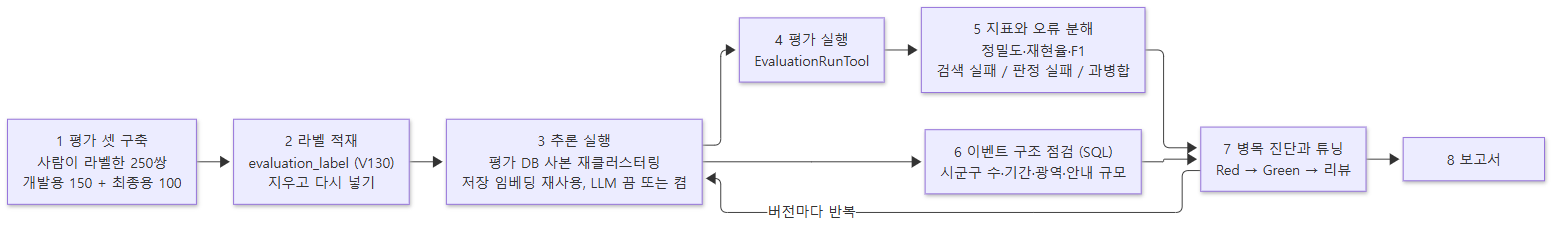
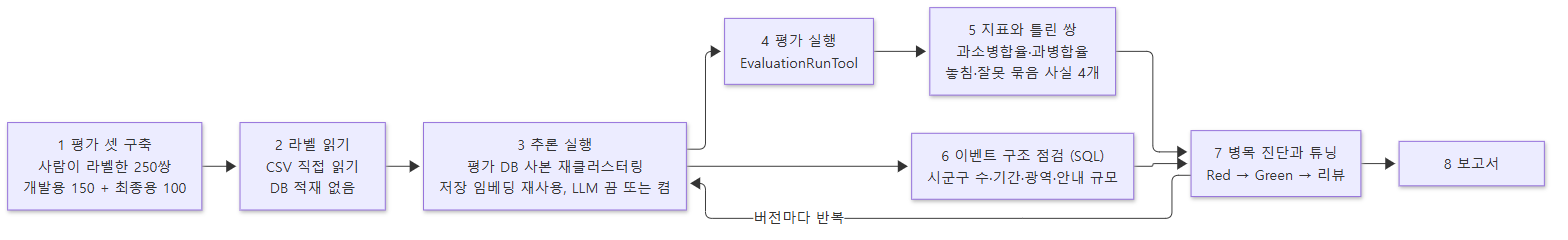
docs(event): 클러스터링 평가 가이드를 신설하고 옛 평가 도구 서술을 두 비율 설계로 고친다
평가 도구를 과소병합율·과병합율 두 비율만 내는 설계로 처음부터 다시
쓰기로 해서, 구현 전에 명세를 먼저 둔다. 가이드는 쌍 계산 방식, 제외 쌍,
리포트 형식, 데이터셋 목록, 실행 인자(--eval.labels, --eval.report)를 담는다.
CLUSTERING_EVALUATION.md 는 라벨 DB 적재·층별 F1·원인 분류·임계값 스윕
서술을 새 설계에 맞게 고치고, 검증 파이프라인 그림도 다시 만들었다.

diff --git a/docs/CLUSTERING_EVALUATION.md b/docs/CLUSTERING_EVALUATION.md
@@ -4,7 +4,11 @@
 
 > 한 줄 요약: 사람이 직접 라벨한 **총 250쌍**(개발용 150 + 최종용 100)으로 측정해, 개발용 재현율 0.615 → 0.844(+22.9%p), 정밀도 1.000 유지, 전체 이벤트 9,697 → 5,388로 줄였다. 자세한 비교는 `docs/CLUSTERING_QUALITY_REPORT.md`.
 
+> 평가 도구는 2026-10-19 에 두 비율(과소병합율·과병합율) 도구로 새로 작성했다. 현재 도구의 읽는 법은 [CLUSTERING_EVAL_GUIDE.md](CLUSTERING_EVAL_GUIDE.md) 를 본다. 이 문서의 검색/판정 단계 서술과 8절 이후 실측 수치는 옛 도구로 잰 값이다.
+
 ---
+
+> 평가 도구는 2026-10-19 에 두 비율(과소병합율·과병합율) 도구로 새로 작성했다. 현재 도구의 읽는 법은 [CLUSTERING_EVAL_GUIDE.md](CLUSTERING_EVAL_GUIDE.md) 를 본다. 이 문서의 검색/판정 단계 서술과 8절 이후 실측 수치는 옛 도구로 잰 값이다.
 
 ## 1. 단계 대응
 
@@ -57,10 +61,10 @@
 | 단계 | 내용 | 도구·산출물 |
 |---|---|---|
 | 1 평가 셋 구축 | 개발용 150쌍(일반 60% / 경계 20% / 함정 20%), 최종용 100쌍(정밀도 40 / 재현율 40 / 어려운 부정 20). 같음·다름·모르겠음, 판정 기준 4가지 | `backend/evaluation/datasets/`, 라벨링 HTML 페이지 |
-| 2 라벨 적재 | CSV 파싱 후 DB에 적재 | `EvaluationLabelParser`·`Loader`, `evaluation_label` |
+| 2 라벨 읽기 | 라벨 CSV 를 DB 적재 없이 바로 읽는다(형식 오류는 줄 번호와 함께 즉시 실패) | `LabelCsv` |
 | 3 추론 실행 | 평가 DB 사본을 만들어 이벤트 테이블을 비우고 **재클러스터링** | `EventClusteringBackfillTool` (`--backfill.recluster=true`) |
-| 4 평가 실행 | 각 쌍이 같은 이벤트에 있는지 읽고, 그 시점에 정답 이벤트가 후보 top-3에 있었는지 근사 | `EvaluationRunTool`(profile `eval`), `EvaluationAssignmentReader`, `PairwiseEvaluator` |
-| 5 지표·오류 분해 | tp/fp/fn/tn, 정밀도·재현율·F1(전체·층별), 오류를 `ErrorCause`로 분류 | `EvaluationReportFormatter`(마크다운), `EventTuningService`(임계값 스윕) |
+| 4 평가 실행 | 각 쌍의 두 알림이 같은 이벤트에 들어 있는지 DB 에 저장된 배정에서 읽는다 | `EvaluationRunTool`(profile `eval`), `AssignmentReader` |
+| 5 지표·틀린 쌍 | 과소병합율·과병합율 두 비율과, 놓친 쌍·잘못 묶은 쌍의 사실 4개(유형·같은 시군구·간격·본문 거리). 원인은 추정하지 않는다 | `PairCounter`, `ReportFormatter`(마크다운). 읽는 법은 `CLUSTERING_EVAL_GUIDE.md` |
 | 6 이벤트 구조 점검 | 쌍 라벨로 안 잡히는 문제를 SQL로 직접 확인 | 수동 SQL (자동화 안 됨) |
 | 7 병목 진단·튜닝 | 오류 원인을 보고 개선 → Red-Green → 단위 테스트 → 코드 리뷰 → 재클러스터링 → 재측정 | 버전별 DB 클론 비교 |
 | 8 보고서 | V0 대비 단계별 개선량과 한계 | `docs/CLUSTERING_QUALITY_REPORT.md` |
@@ -73,16 +77,15 @@
 
 ### 4.1 검색 단계
 - **구현**: `DisasterEventRepository.findTopCandidates` — 같은 시군구(앞 5자리) footprint 교집합, 마지막 알림이 윈도우(168h) 안, 광역·안내 이벤트 제외, 이벤트별 최소 코사인 거리 오름차순 상위 3개. 사고성 유형은 `findTopAdjacentCandidates`로 `region_adjacency` 이웃 시군구의 이벤트도 추가 조회한다(조회 윈도우 48h, 후보 이벤트 첫 알림 72h 이내 등 가드 포함).
-- **지표**: 후보 재현율 — 정답 이벤트가 그 시점 후보 3개 안에 있었는가. 못 들어간 쌍을 **검색 실패(RETRIEVAL_MISS)**로 센다. 쌍 분리도(AUC·margin)와 임계값 스윕으로 거리 분포도 본다.
-- **한계**: 평가는 현재 이벤트 상태에서 "그 시점의 후보"를 근사한다(`as-of` 근사).
+- **지표**: 평가 도구는 검색 단계를 따로 재지 않는다. 놓친 쌍이 검색 단계 탓인지 판정 단계 탓인지는 계산하지 않고, 필요할 때 별도로 조사한다(2026-10-19 이전에는 후보 재현율·`RETRIEVAL_MISS`·AUC·임계값 스윕으로 쟀으나 새 도구에서 뺐다).
 
 ### 4.2 판정 단계
 - **구현**: `EventClusteringService` — 거리 임계값(기본 0.15, 완화 유형 0.35) → 사고성 유형의 인접 시군구 임계값 병합 → borderline 사고성 건의 LLM 폴백(`tryLlmFallback`) → 신규 이벤트. 병합 전 가드(`allowsAccidentMerge`: 사고성 유형, 화재 마지막 알림 72h, `withinAdjacentEventAge`: 이벤트 첫 알림 72h).
-- **지표**: 정답 이벤트가 후보에 있었는데 합치지 않은 쌍을 **판정 실패(DECISION_MISS)**, 다른 사건인데 합친 쌍을 **과병합(OVER_MERGE)**으로 센다.
-- **LLM 폴백**: 기본 평가는 LLM을 끈 조건이다. LLM을 켠 측정(개발용 150·최종용 100)에서 최종용 판정 실패가 21 → 5건으로 줄어 운영 구성에 더 가까운 수치를 얻었다(8절 참고).
+- **지표**: 사람이 같은 사건이라 한 쌍 중 다른 이벤트에 있는 쌍을 **놓침**, 다른 사건이라 한 쌍 중 같은 이벤트에 있는 쌍을 **잘못 묶음**으로 센다. 단계 구분 없이 두 비율(과소병합율·과병합율)로만 낸다.
+- **LLM 폴백**: 2026-10-19 이전 측정에서 기본 평가는 LLM을 끈 조건이었다. LLM을 켠 측정(개발용 150·최종용 100)에서 최종용 판정 실패가 21 → 5건으로 줄어 운영 구성에 더 가까운 수치를 얻었다(8절 참고).
 
 ### 4.3 엔드투엔드
-- **구현된 것**: 최종 이벤트 배정을 쌍으로 풀어 층별 tp·fp·fn·tn, 정밀도·재현율·F1 (`PairwiseEvaluator`, `EventEvaluationService`).
+- **구현된 것**: 라벨 쌍마다 최종 이벤트 배정이 같은지 읽어 과소병합율·과병합율을 낸다 (`PairCounter`, `AssignmentReader`). 층별·원인별 집계는 하지 않는다.
 - **수동으로 점검한 것**: 이벤트가 걸친 시군구 수 분포, 이벤트 기간, 광역 이벤트 수, 단발 이벤트 수 — SQL로 직접 확인했고 자동화하지 않았다.
 - **없는 것**: 이벤트 순도(한 이벤트 안에 서로 다른 사건이 섞였는가), 분절도(한 사건이 몇 개 이벤트로 쪼개졌는가)의 자동 지표.
 
@@ -92,9 +95,8 @@
 
 | 증상 | 단계 | 분류 |
 |---|---|---|
-| 정답 이벤트가 후보 3개에 없음 | 검색 | 검색 실패 |
-| 후보에 있는데 합치지 않음 | 판정 | 판정 실패 |
-| 다른 사건을 합침 | 판정 (또는 검색이 엉뚱한 후보를 올림) | 과병합 |
+| 같은 사건인데 합치지 않음 | 검색 또는 판정 (도구는 구분하지 않음) | 놓침 → 과소병합율 |
+| 다른 사건인데 합침 | 판정 (또는 검색이 엉뚱한 후보를 올림) | 잘못 묶음 → 과병합율 |
 | 이웃 시군구를 따라 연쇄로 이어 붙어 거대한 이벤트가 됨 | **엔드투엔드** (검색·판정 각각은 정상) | 쌍 지표로 안 잡힘 |
 | 단발 이벤트가 불필요하게 늘어남 | 엔드투엔드 | 쌍 지표로 안 잡힘 |
 
@@ -105,7 +107,8 @@
 - **총 250쌍**을 사람이 직접 라벨했다.
   - 개발용 150쌍: `backend/evaluation/datasets/cluster-eval-2026-10.csv`(문항), `.labels.json`(라벨), `.rubric.md`(기준).
   - 최종용 100쌍: `cluster-eval-2026-10-test.*`. 정밀도 표본 40(시스템이 합친 쌍), 재현율 표본 40(후보에는 올랐지만 합치지 않은 쌍을 거리 구간별로), 어려운 부정 예시 20(같은 유형·같은 시군구에서 거리가 임계값 근처). **튜닝에 쓰지 않는 셋**이다. 퀴즈 표에는 시스템이 합쳤는지를 숨겼고 라벨링이 끝난 뒤 `key.csv`로 공개했다.
-  - DB 테이블 `evaluation_label`(V130)에 "지우고 다시 넣기"로 적재한다.
+  - 라벨은 CSV 에서 바로 읽는다(DB 적재 없음). `evaluation_label` 테이블(V130)은 옛 도구가 쓰던 것이라 새 도구는 쓰지 않는다.
+  - 사건 셋 `cluster-eval-2026-10-incident.*`은 비사건(ADVISORY) 제외 이후에 만든 셋이다. 2026-10-19 이전 리포트(`evaluation/reports/*.md`)는 옛 형식이라 직접 비교하지 않는다.
 - LLM이 정답을 대신 매기는 방식(LLM-as-a-Judge)은 검토 후 채택하지 않았다. 이미 사람이 라벨한 쌍이 있고, 판사는 검증용으로 한 번 쓰고 마는 성격이 강하며, 사람 라벨이 최종 근거라 신뢰도가 높기 때문이다.
 - **한계**: 라벨러 1명, 개발용 부정 예시 38개, 최종용 100쌍은 V8 결과에서 뽑은 표본이라 개선 전후 비교에는 유리한 쪽으로 기운다. 표본이 작아 정밀도의 오차 범위가 크다(40쌍이면 ±10~15%p). 후보에 못 오른 쌍(검색 실패)은 최종용 표본에 거의 안 걸린다.
 
@@ -156,7 +159,7 @@
 | PR | 내용 |
 |---|---|
 | #292 | 클러스터링 품질 개선 (키 병합 에피소드형, 임계값 완화, 인접 시군구 후보·가드·나이 상한, `기타` 안내 분리·광역 병합) |
-| #293 | 평가 도구 (라벨 적재, 쌍 단위 평가, 리포트, 임계값 스윕) |
+| #293 | 평가 도구 (라벨 적재, 쌍 단위 평가, 리포트, 임계값 스윕) — 2026-10-19 삭제 후 두 비율 도구로 재작성 |
 | #294 | 최종용 평가 표본 100쌍 + 이 문서의 이전 판 |
 | #295 | 산불 다지역 안내를 안내 광역 이벤트로 |
 | #296 | 일반 광역 조회 메서드 이름 정리 |

diff --git a/docs/CLUSTERING_EVAL_GUIDE.md b/docs/CLUSTERING_EVAL_GUIDE.md
@@ -1,0 +1,75 @@
+# 클러스터링 평가 읽는 법
+
+이벤트 클러스터링이 잘 묶었는지를 사람이 라벨한 알림 쌍으로 재는 도구의 설명서다. 계산은 일부러 단순하게 두었다.
+
+## 하는 일 한 줄
+사람이 라벨한 **알림 쌍**마다 "두 알림이 **같은 이벤트**에 들어 있는가"만 본다.
+
+## 쌍 하나가 어떻게 세어지나
+| 사람의 라벨 | 시스템 | 세는 이름 |
+|---|---|---|
+| 같은 사건 | 같은 이벤트 | **맞게 묶음** |
+| 같은 사건 | 다른 이벤트 | **놓침** |
+| 다른 사건 | 같은 이벤트 | **잘못 묶음** |
+| 다른 사건 | 다른 이벤트 | 세지 않는다 |
+
+## 지표 두 개
+- **과소병합율** = 놓침 ÷ (맞게 묶음 + 놓침). 사람이 같은 사건이라 한 쌍 중 못 묶은 비율. 낮을수록 좋다.
+- **과병합율** = 잘못 묶음 ÷ (맞게 묶음 + 잘못 묶음). 시스템이 묶은 쌍 중 사람이 다른 사건이라 한 비율. 낮을수록 좋다.
+
+### 예시 (쌍 6개)
+| 쌍 | 사람 | 시스템 | 세는 이름 |
+|---|---|---|---|
+| 1 | 같은 사건 | 같은 이벤트 | 맞게 묶음 |
+| 2 | 같은 사건 | 같은 이벤트 | 맞게 묶음 |
+| 3 | 같은 사건 | 다른 이벤트 | 놓침 |
+| 4 | 같은 사건 | 다른 이벤트 | 놓침 |
+| 5 | 다른 사건 | 같은 이벤트 | 잘못 묶음 |
+| 6 | 다른 사건 | 다른 이벤트 | (세지 않음) |
+
+- 과소병합율 = 2 ÷ (2 + 2) = 50%. 같은 사건 4쌍 중 2쌍을 놓쳤다.
+- 과병합율 = 1 ÷ (2 + 1) = 33.3%. 묶은 3쌍 중 1쌍이 잘못됐다.
+
+## 평가에서 빠지는 쌍
+- **모르겠음**: 라벨이 "모르겠음"인 쌍.
+- **이벤트 미배정**: 두 알림 중 하나라도 이벤트에 들어 있지 않은 쌍(비사건으로 분류되어 클러스터링에서 빠졌거나 처리되지 않은 알림). 정답을 가릴 수 없어서 빼고 건수만 센다.
+- 두 건수는 리포트에 따로 적힌다. 둘 다 해당하면 모르겠음으로 센다.
+
+## 리포트
+```
+## 요약
+- 같은 사건 60쌍 중 38쌍 묶음, 22쌍 놓침 → 과소병합율 36.7%
+- 묶은 40쌍 중 38쌍 맞음, 2쌍 잘못 묶음 → 과병합율 5.0%
+- 제외: 모르겠음 6쌍, 이벤트 미배정 0쌍
+## 놓친 쌍 / 잘못 묶은 쌍
+| alertA | alertB | 유형 | 같은 시군구 | 간격(시간) | 본문 거리 |
+```
+(위 숫자는 설명용 예시다.) 놓친 쌍과 잘못 묶은 쌍에는 **이유를 계산하지 않고 사실만** 적는다.
+- 유형: 두 알림의 재난 유형(다르면 "A/B").
+- 같은 시군구: 두 알림이 시군구(법정동 코드 앞 5자리)를 하나라도 공유하면 "예".
+- 간격(시간): 두 알림 발송 시각의 차.
+- 본문 거리: 두 알림 본문 임베딩의 코사인 거리(작을수록 비슷, 병합 기준은 0.15 이하). 임베딩이 없으면 "-".
+
+## 이 도구가 하지 않는 것
+- **왜 놓쳤는지(검색 단계인지 판정 단계인지) 계산하지 않는다.** 어느 단계가 막혔는지는 필요할 때 별도로 조사한다.
+- **클러스터링을 다시 하지 않는다.** DB 에 저장된 이벤트 배정을 읽을 뿐이다. 클러스터링 코드를 바꿨다면 먼저 재클러스터링(백필)으로 새 스냅샷을 만든 뒤 그 DB 를 평가해야 바뀐 결과가 나온다. 평가와 재클러스터링은 일부러 분리했다.
+
+## 데이터셋
+`backend/evaluation/datasets/`의 CSV(`alert_a_id,alert_b_id,label,stratum,sub_type`). `label`은 SAME·DIFF·UNSURE 이고 `stratum`·`sub_type`은 형식 호환용이라 읽고 버린다(평가 계산에 쓰지 않는다). 데이터셋 이름은 CSV 파일명에서 확장자를 뗀 것이다.
+- `cluster-eval-2026-10.csv`: 개발용 셋
+- `cluster-eval-2026-10-test.csv`: 홀드아웃 셋(규칙 튜닝에 쓰지 않은 셋, 요청할 때만 돌린다)
+- `cluster-eval-2026-10-incident.csv`: 사건 셋(두 알림 모두 사건으로 분류된 쌍)
+
+개발용 셋은 비사건(ADVISORY) 제외 전에 만들어서 안내성 쌍이 "이벤트 미배정"으로 많이 빠질 수 있다. 리포트를 볼 때는 전체 쌍 수 대비 계산에 쓰인 쌍 수를 함께 본다.
+
+2026-10-19 이전 리포트(`evaluation/reports/*.md`)는 옛 형식이라 직접 비교하지 않는다.
+
+## 실행
+라벨은 CSV 에서 바로 읽는다(DB 적재 없음, `evaluation_label` 테이블도 쓰지 않는다). 평가용 DB 사본에서 `eval` 프로필로 실행한다(OpenAI 호출 없음, 운영 DB 에는 실행하지 않는다).
+```
+./gradlew bootRun --args='--spring.profiles.active=eval --eval.labels=<CSV 경로> --eval.report=<리포트 경로>'
+```
+- `--eval.labels`(필수): 라벨 CSV 경로.
+- `--eval.report`(선택): 마크다운 리포트 경로. 없으면 로그로만 출력한다.
+- 리포트 머리에는 데이터셋 이름과 실행 시각만 적고, 끝나면 애플리케이션이 종료된다.
+- CSV 형식 오류(헤더 불일치, 컬럼 수, 숫자 아님, 같은 id, 알 수 없는 label, (a,b)/(b,a) 중복)는 줄 번호와 함께 즉시 실패한다.
